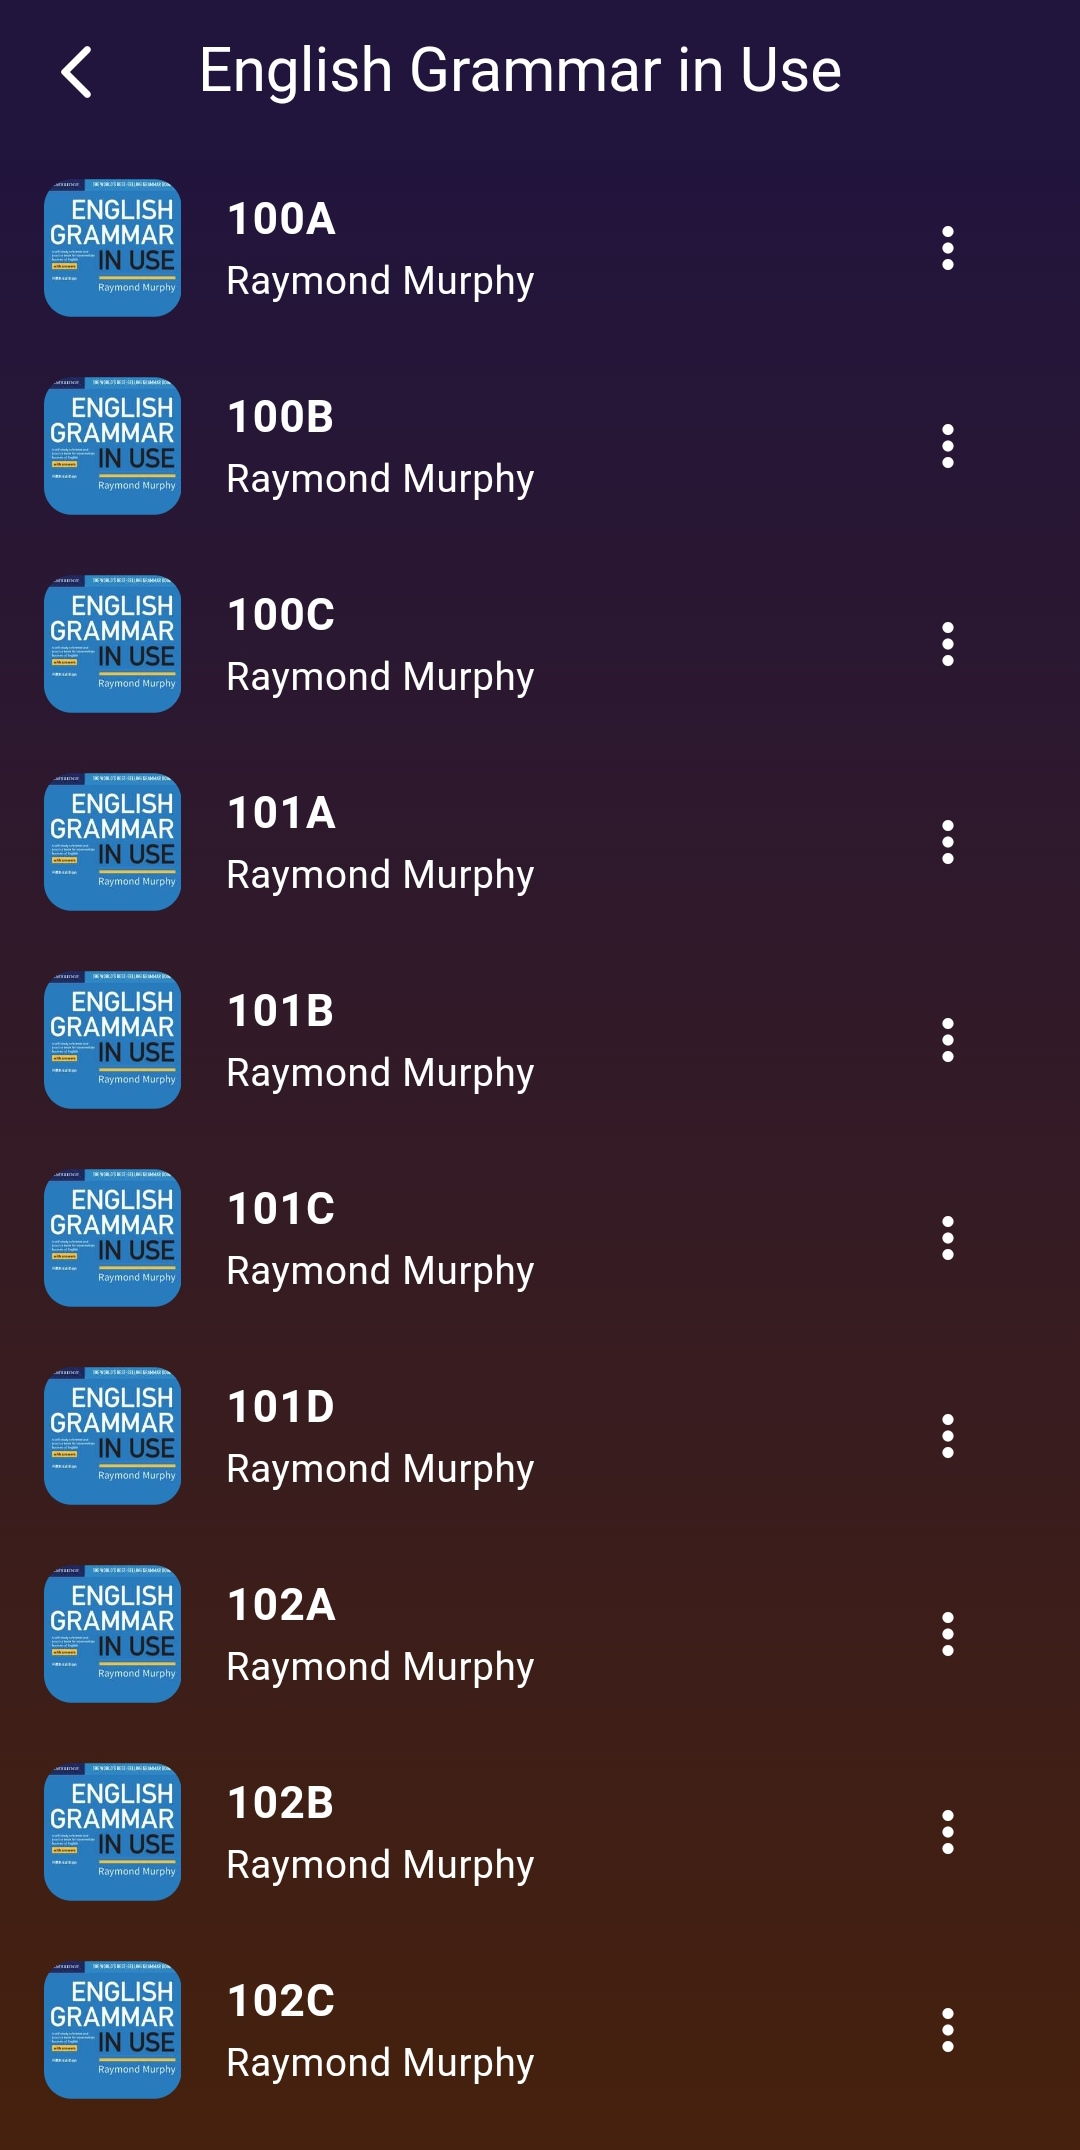
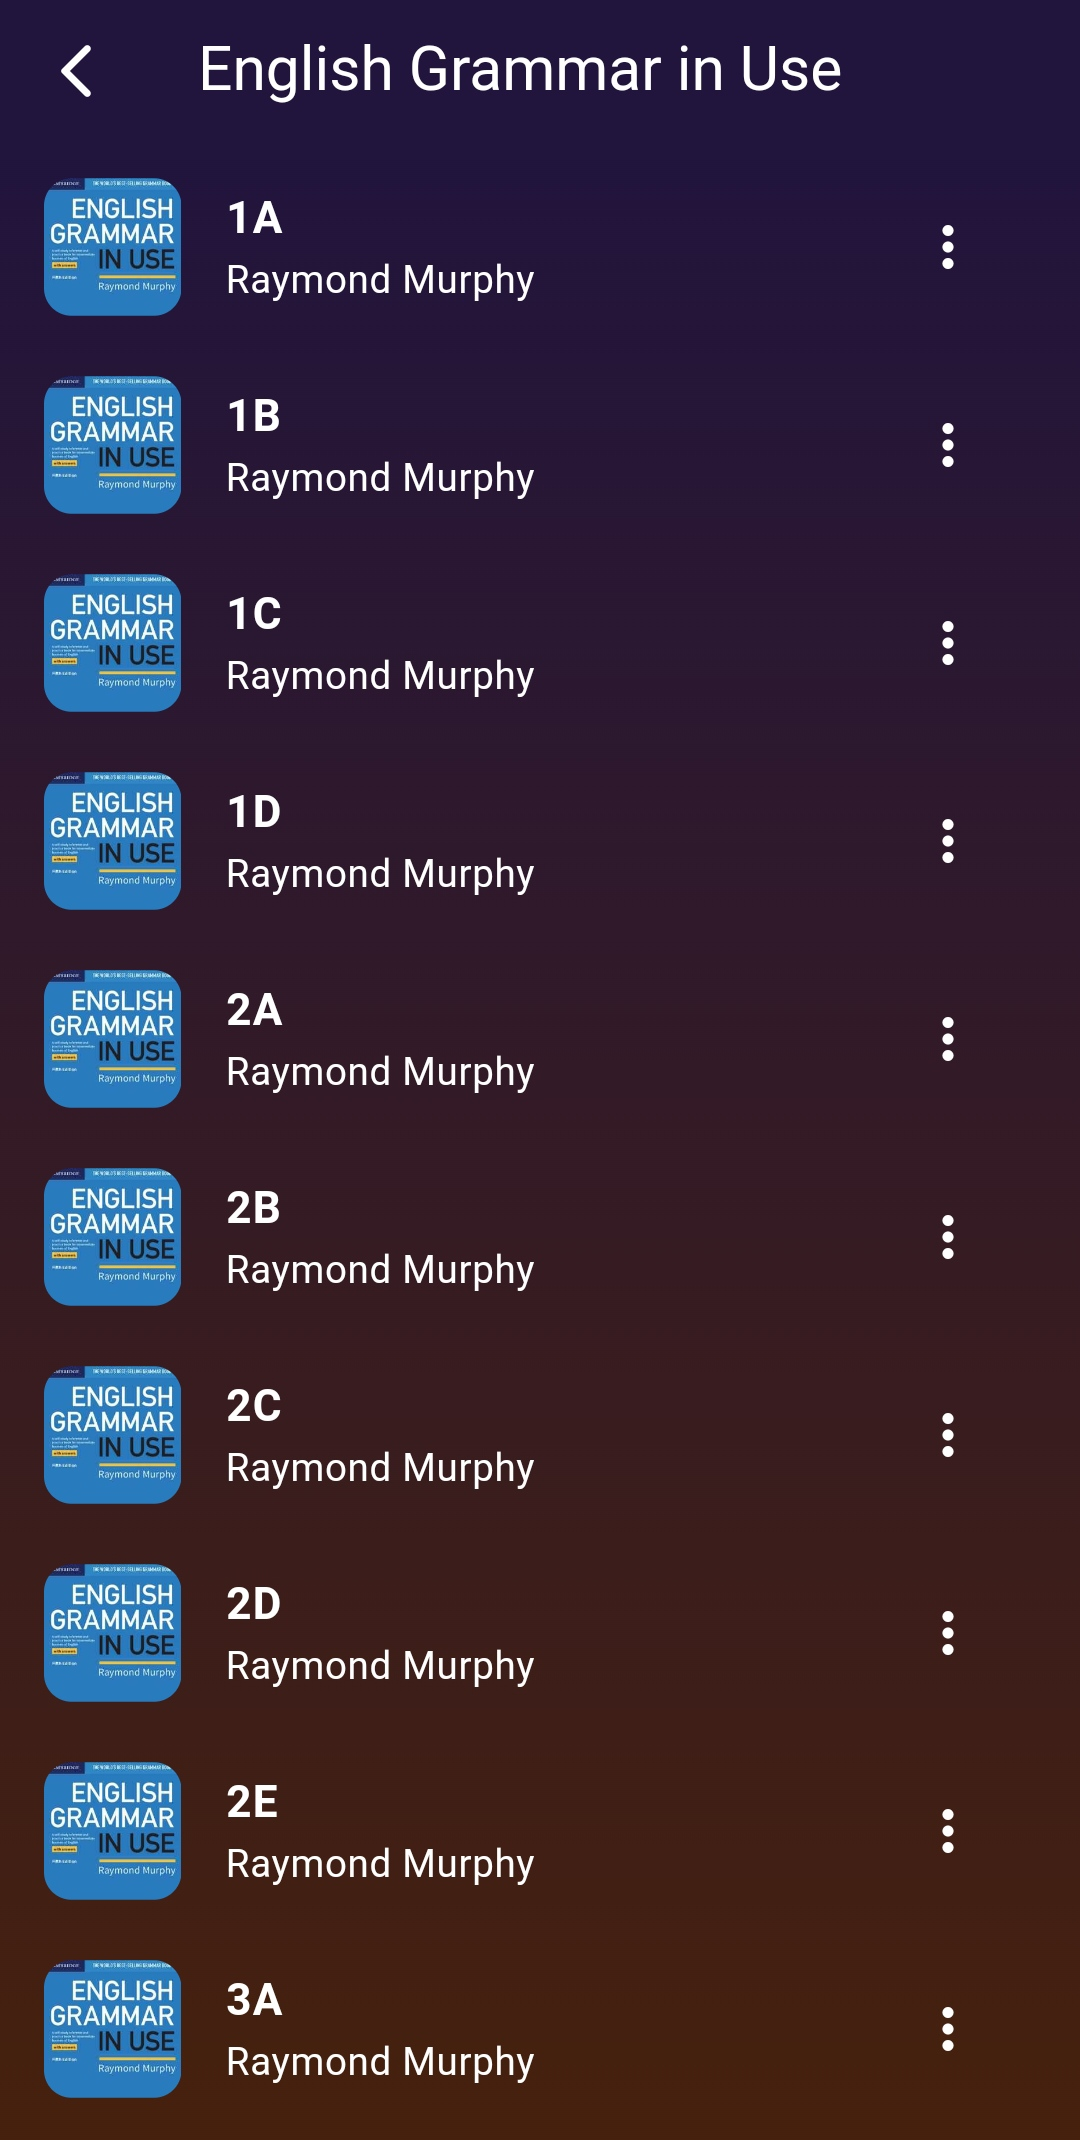
mp3 file sort

diff --git a/lib/src/presentation/pages/album_page.dart b/lib/src/presentation/pages/album_page.dart
@@ -9,7 +9,7 @@ import 'package:on_audio_query/on_audio_query.dart';
 class AlbumPage extends StatefulWidget {
   final AlbumModel album;
 
-  const AlbumPage({super.key, required this.album});
+  const AlbumPage({Key? key, required this.album}) : super(key: key);
 
   @override
   State<AlbumPage> createState() => _AlbumPageState();
@@ -29,15 +29,24 @@ class _AlbumPageState extends State<AlbumPage> {
   Future<void> _getSongs() async {
     final OnAudioQuery audioQuery = sl<OnAudioQuery>();
 
-    final List<SongModel> songs = await audioQuery.queryAudiosFrom(
+    List<SongModel> songs = await audioQuery.queryAudiosFrom(
       AudiosFromType.ALBUM_ID,
       widget.album.id,
     );
 
-    // remove songs less than 10 seconds long (10,000 milliseconds)
-    //songs.removeWhere((song) => (song.duration ?? 0) < 10000);
+    // Sort songs by name
+    songs.sort((a, b) {
+      // Extract the numeric part from the song title
+      int numA = int.parse(a.title.split(RegExp(r'\D+'))[0]);
+      int numB = int.parse(b.title.split(RegExp(r'\D+'))[0]);
+      // Compare the numeric parts first
+      if (numA != numB) {
+        return numA.compareTo(numB);
+      }
+      // If numeric parts are equal, compare the alphabetic parts
+      return a.title.replaceAll(RegExp(r'\d+'), '').compareTo(b.title.replaceAll(RegExp(r'\d+'), ''));
+    });
 
-    // await songRepository.addSongsToQueue(songs);
     setState(() {
       _songs = songs;
     });
@@ -46,7 +55,6 @@ class _AlbumPageState extends State<AlbumPage> {
   @override
   Widget build(BuildContext context) {
     return Scaffold(
-      // current song, play/pause button, song progress bar, song queue button
       bottomNavigationBar: const PlayerBottomAppBar(),
       extendBody: true,
       appBar: AppBar(
@@ -89,6 +97,8 @@ class _AlbumPageState extends State<AlbumPage> {
     );
   }
 }
+
+
 
 
 //   @override
